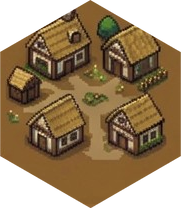
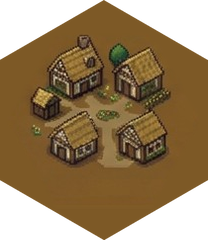
Fit whole terrain artwork into the spaces and add empty-space terrain
Claude-Session: https://claude.ai/code/session_01E9bY9y9EnKpj7kBNMYBnpk

diff --git a/internal/render/terrain.go b/internal/render/terrain.go
@@ -21,6 +21,7 @@ import (
 var terrainFS embed.FS
 
 var terrainNames = map[board.Kind]string{
+	board.Empty:      "empty",
 	board.Food:       "food",
 	board.Energy:     "energy",
 	board.Settlement: "settlement",

diff --git a/README.md b/README.md
@@ -77,9 +77,9 @@ A facility may go on a space of the other facility type only if no free empty sp
 The hovered space shows a preview, or a red outline if the tile is not allowed there.
 Placed tiles are drawn as smaller hexagons with an icon: food with leaf, energy with lightning bolt, settlement with 1–4 houses (its settlement symbols). The placement preview shows the tile in its kind colour: food `#2e6b1f` dark green, energy `#d9822b` orange, settlement `#b0302a` red.
 Space icons are drawn in a darker shade (55 %) of the space color.
-Food, energy, settlement, castle and cathedral spaces are drawn with terrain images instead (`internal/render/terrain/<kind>_<n>.png`, pointy-top hexagons with a transparent outside;
+Empty, food, energy, settlement, castle and cathedral spaces are drawn with terrain images instead (`internal/render/terrain/<kind>_<n>.png`, pointy-top hexagons with a transparent outside; the whole artwork fits inside the hexagon, the corners are filled with its base colour;
 the variant is picked from the space coordinates). Their kind icon is left out; a harbor or wind collector shows a white plus, a controlled castle a small castle icon in the owner's colour.
-Empty spaces and round towers keep their plain color and icon. A kind gets images by adding `<kind>_1.png`, `<kind>_2.png`, … and an entry in `terrainNames` (`internal/render/terrain.go`).
+Round towers keep their plain color and icon. A kind gets images by adding `<kind>_1.png`, `<kind>_2.png`, … and an entry in `terrainNames` (`internal/render/terrain.go`).
 
 ### Scoring (`internal/board/score.go`)
 
